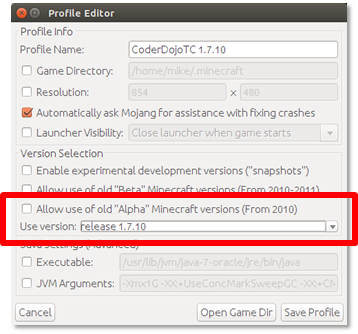
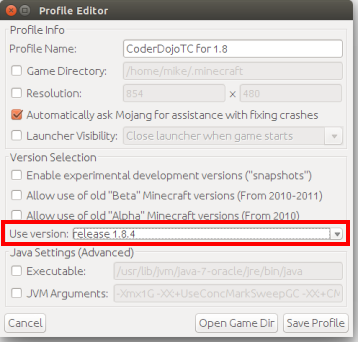
Updated docs for release 1.8.

diff --git a/docs/classroom/lab-instance.rst b/docs/classroom/lab-instance.rst
@@ -89,8 +89,9 @@ The steps involved in connecting to Minecraft include:
    working through these exercises at home, use your personal
    Minecraft account.
 
-#. Create a profile and make sure it uses version ``release 1.7.10``
-   of the game. The image below illustrates what a properly configured
+#. Create a profile and make sure it uses the latest patch in the 1.8
+   release series. For example, you can specify ``release 1.8.4`` of
+   the game. The image below illustrates what a properly configured
    profile will loook like:
 
    .. image:: _images/minecraft-profile.png
